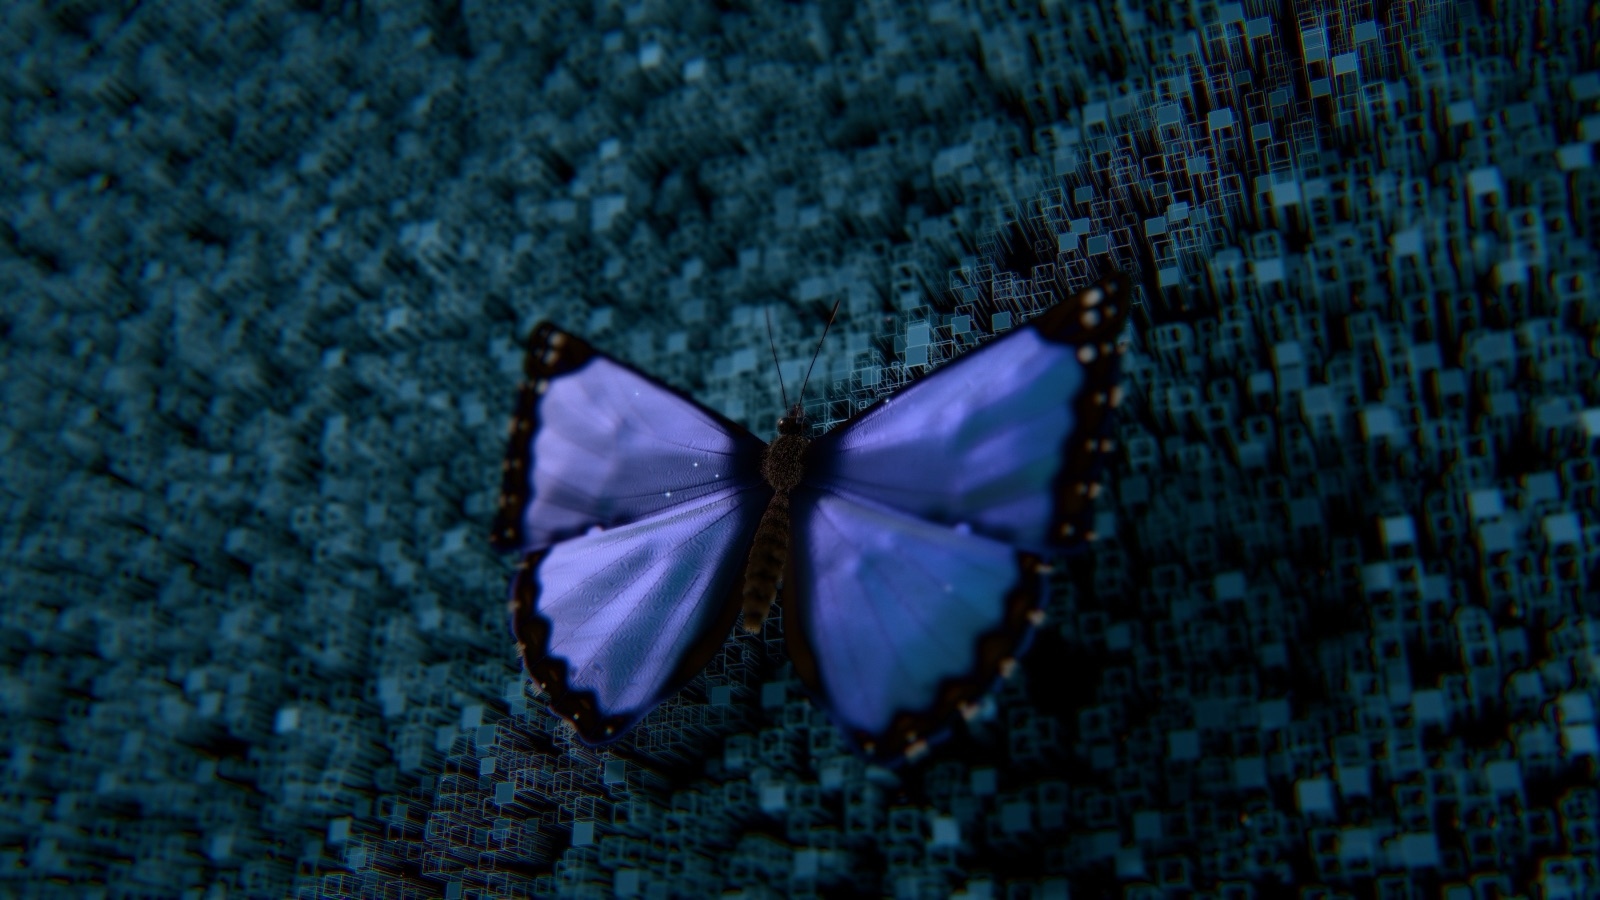
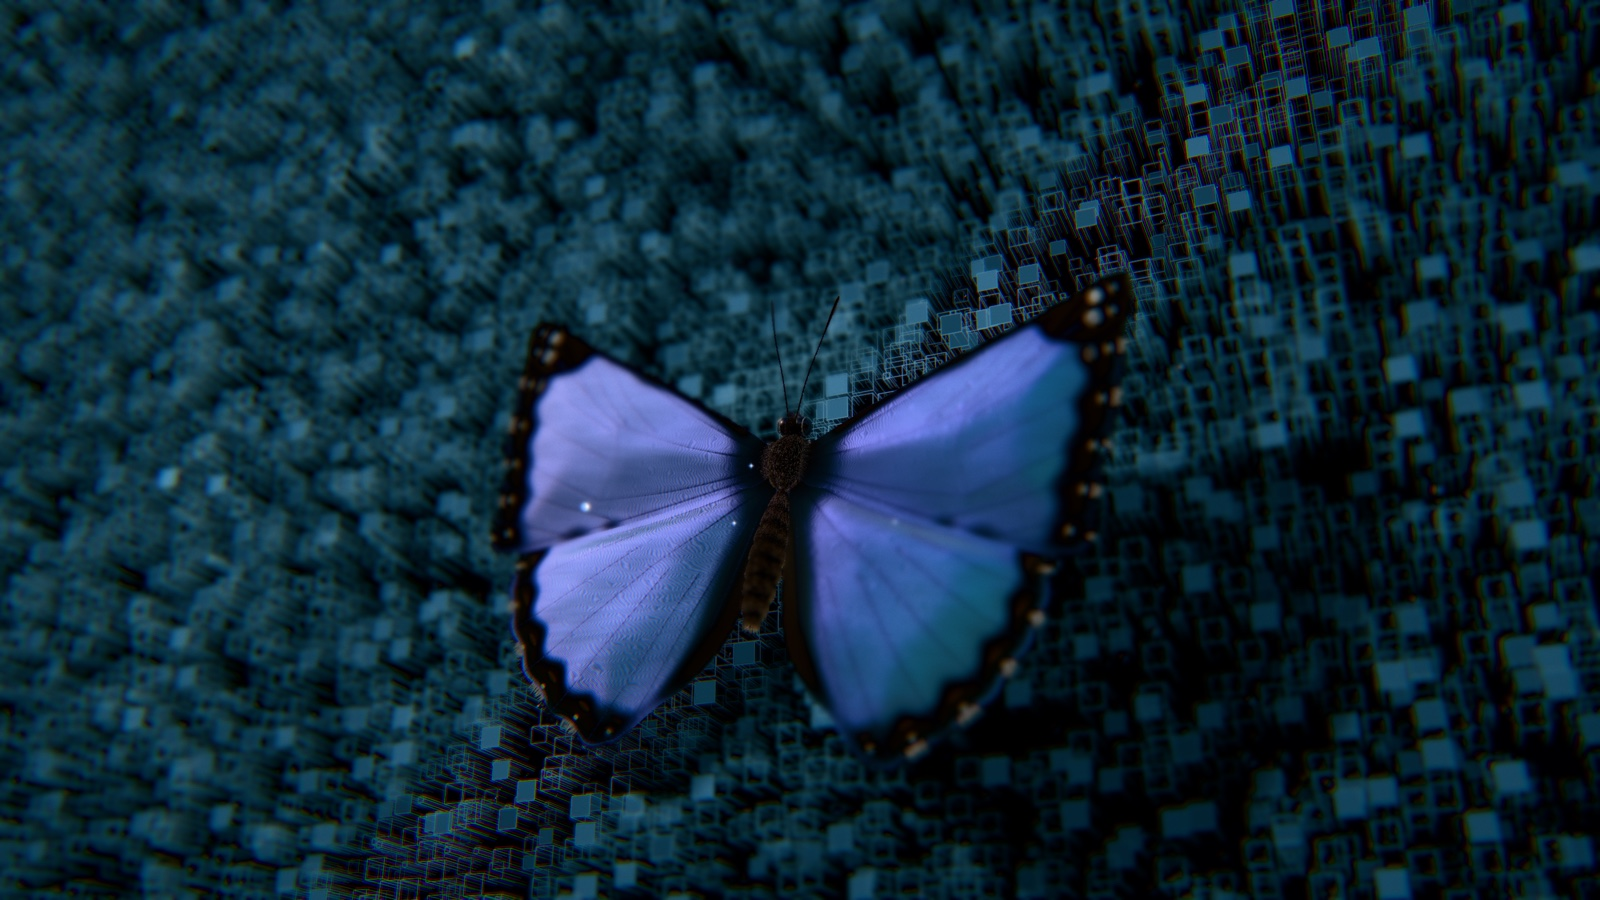
Retake the README screenshot with the flatter wings, and say only a basking butterfly turns with the sun

diff --git a/README.ja.md b/README.ja.md
@@ -35,7 +35,7 @@ WebGPU に対応したブラウザ(Chrome / Edge / Safari 26 以降など)で開
 |---|---|
 | 蝶にカーソルを重ねる | 翅を開く(マウスのみ) |
 | 蝶をタップ | 飛び去る |
-| ドラッグ | 太陽の向きを変える(蝶も向き直る) |
+| ドラッグ | 太陽の向きを変える(日光浴している蝶は向き直る) |
 | 左下の VIEW、またはキーの V | 視点: 寄り / 引き(2.5 倍の距離) |
 | 左下の WALL、またはキーの W | 壁: 柱 / 回路 / ガラス |
 | 左下の FX、またはキーの E | 画面の描き直し: オフ / scan / dither |

diff --git a/README.md b/README.md
@@ -35,7 +35,7 @@ The camera does not move, apart from switching between two views.
 |---|---|
 | Hover over the butterfly | It opens its wings (mouse only) |
 | Tap the butterfly | It flies off |
-| Drag | Moves the sun (the butterfly turns to follow) |
+| Drag | Moves the sun (a basking butterfly turns to follow) |
 | VIEW at the bottom left, or the V key | View: macro / wide (2.5 times as far back) |
 | WALL at the bottom left, or the W key | Wall: columns / circuit / glass |
 | FX at the bottom left, or the E key | Redraws the screen: off / scan / dither |
